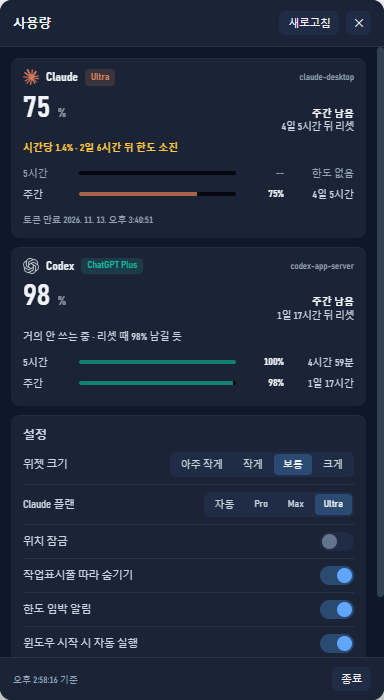
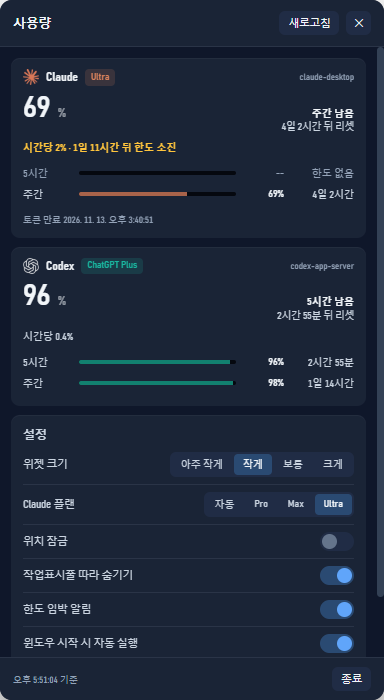
위젯 글자를 키운다. 창 크기는 그대로
본문 10 -> 11.5px, 창 이름 9.5 -> 10.5px, 플랜 9.5 -> 11px.
늘어난 글자 폭만큼 고정 칸(%·남은 시간)을 넓히고 간격을 줄여, 막대가
지나치게 짧아지지 않게 했다. README 캡처도 다시 찍었다.

diff --git a/app/widget.css b/app/widget.css
@@ -56,10 +56,10 @@
   align-items: center;
   flex: 1 1 0;
   min-width: 0;
-  gap: 8px;
+  gap: 7px;
 }
 
-.cell + .cell { margin-left: 9px; padding-left: 9px; }
+.cell + .cell { margin-left: 8px; padding-left: 8px; }
 
 .cell + .cell::before {
   content: "";
@@ -87,7 +87,7 @@
 
 .plan {
   max-width: 100%;
-  font-size: 9.5px;
+  font-size: 11px;
   font-weight: 600;
   line-height: 1.3;
   color: var(--text);
@@ -114,16 +114,16 @@
 .row {
   display: flex;
   align-items: center;
-  gap: 6px;
-  font-size: 10px;
-  line-height: 1.3;
+  gap: 5px;
+  font-size: 11.5px;
+  line-height: 1.25;
 }
 
 /* 어느 창인지. 제공자 브랜드색이라 좌우 셀도 한눈에 갈린다. */
 .tag {
   flex: 0 0 auto;
-  width: 20px;
-  font-size: 9.5px;
+  width: 21px;
+  font-size: 10.5px;
   font-weight: 700;
   letter-spacing: 0.02em;
   color: var(--brand, var(--text-3));
@@ -148,7 +148,7 @@
 
 .pc {
   flex: 0 0 auto;
-  width: 34px;
+  width: 36px;
   text-align: right;
   font-weight: 700;
   color: var(--level);
@@ -157,7 +157,7 @@
 
 .rs {
   flex: 0 0 auto;
-  width: 64px;
+  width: 68px;
   text-align: right;
   color: var(--text);
   white-space: nowrap;
@@ -220,6 +220,6 @@
 .plate.empty {
   align-items: center;
   justify-content: center;
-  font-size: 11px;
+  font-size: 12px;
   color: var(--text-3);
 }
